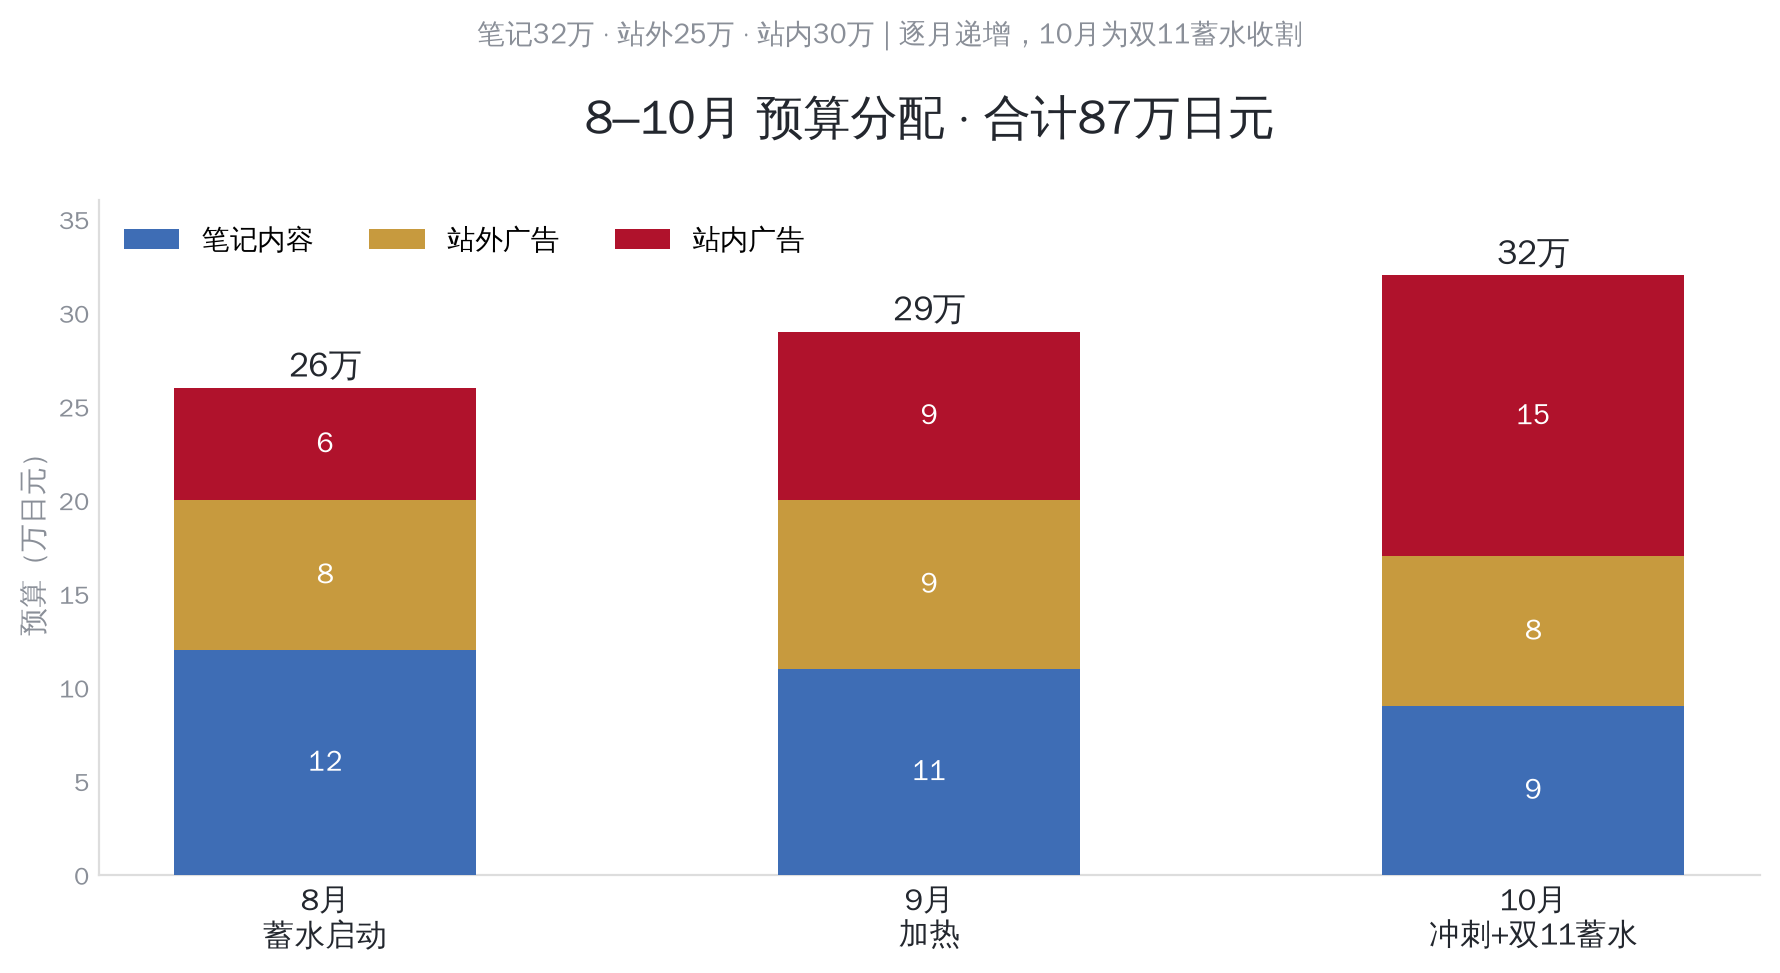
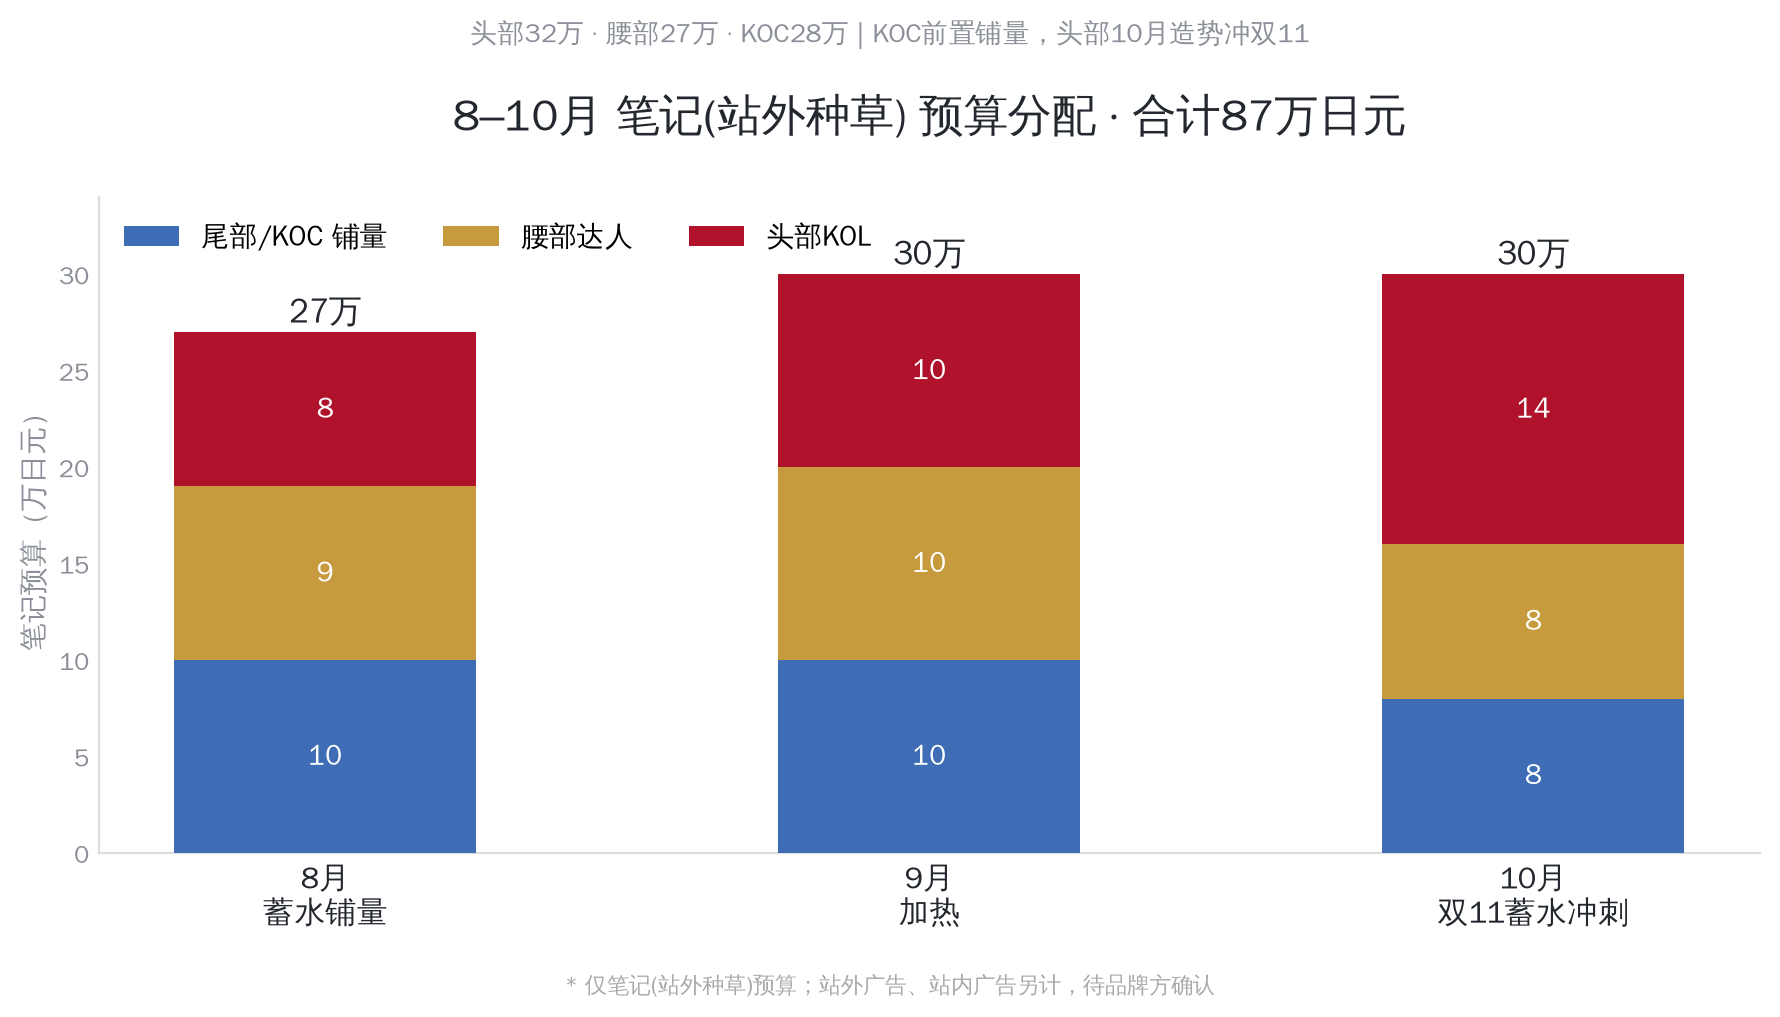
修正:87万仅笔记(站外种草)预算,按达人层级分配
预算图改为87万笔记预算按月×达人层级(头部/腰部/KOC);
文档同步:站外广告/站内广告另计待品牌方确认。

Claude-Session: https://claude.ai/code/session_013k95bYdAdK1fcM2etaM87V

diff --git a/docs/工作/04-营销推广/代运营-Quality1st/2026-07-30-8-10月小红书统筹汇报.md b/docs/工作/04-营销推广/代运营-Quality1st/2026-07-30-8-10月小红书统筹汇报.md
@@ -22,19 +22,26 @@
 - **站外/笔记 = 蓄水**（积累A3种草人群、爆文、口碑）
 - **站内广告 = 收割**（承接流量、大促转化）
 
-## 三、三板块统筹 + 预算分配（87万日元）
-配图：`03-8-10月预算分配.png`
+## 三、三板块统筹 + 预算
+**⚠ 87万日元 = 仅「笔记(站外种草)」预算；站外广告、站内广告另计（待品牌方确认）。**
 
-| 月份 | 笔记内容 | 站外广告 | 站内广告 | 合计 |
+### 3.1 笔记(站外种草) 87万分配（配图 `03-8-10月预算分配.png`）
+按 月份 × 达人层级：
+
+| 月份 | 尾部/KOC | 腰部达人 | 头部KOL | 合计 |
 |------|---------|---------|---------|------|
-| 8月 蓄水启动 | 12 | 8 | 6 | **26万** |
-| 9月 加热 | 11 | 9 | 9 | **29万** |
-| 10月 冲刺+双11蓄水 | 9 | 8 | 15 | **32万** |
-| **合计** | **32万** | **25万** | **30万** | **87万** |
+| 8月 蓄水铺量 | 10 | 9 | 8 | **27万** |
+| 9月 加热 | 10 | 10 | 10 | **30万** |
+| 10月 双11蓄水冲刺 | 8 | 8 | 14 | **30万** |
+| **合计** | **28万** | **27万** | **32万** | **87万** |
 
-- **笔记**：达人/KOC 铺量+爆文，人群精准化，内容信任度（真人测评/场景）
-- **站外广告**：聚光/薯条/信息流，测人群→放大优质笔记，A3种草人群蓄水
+- 逻辑：**KOC前置铺量蓄水 → 头部10月造势冲双11**
+- 重点：人群精准化、内容信任度（真人测评/场景）、爆文率
+
+### 3.2 站外广告 / 站内广告（预算另计·待确认）
+- **站外广告**：聚光/薯条/信息流，测人群→放大优质笔记、A3种草人群蓄水
 - **站内广告**：直通车/引力魔方/万相台，10月加码承接双11预售蓄水
+- 👉 需向品牌方确认这两块的预算量级，再补统一分配
 
 ## 四、执行排期（甘特要点）
 - **8月**：定选品与达人名单 → 铺 KOC/腰部笔记 → 站外小额测人群
@@ -77,5 +84,6 @@
 - 03-8-10月预算分配.png
 
 ## 待确认
-- 币种确认（本表按日元）；87万是否为笔记+站外+站内合计
-- 8–10月历史广告费(1.35M)与新预算(87万)口径是否一致
+- 币种确认（本表按日元）
+- ✅ 已明确：87万 = 仅「笔记(站外种草)」预算
+- **待品牌方确认**：站外广告、站内广告 8–10月各自预算量级
